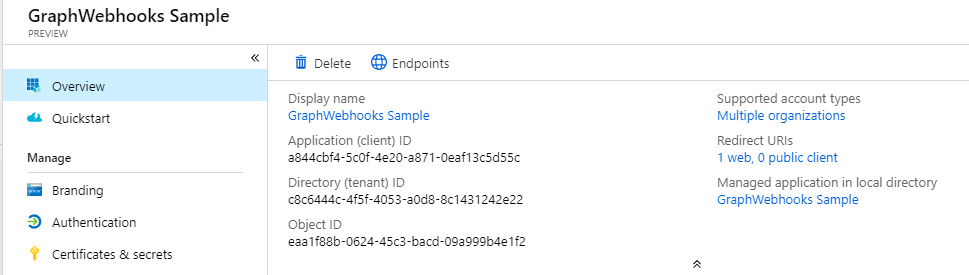
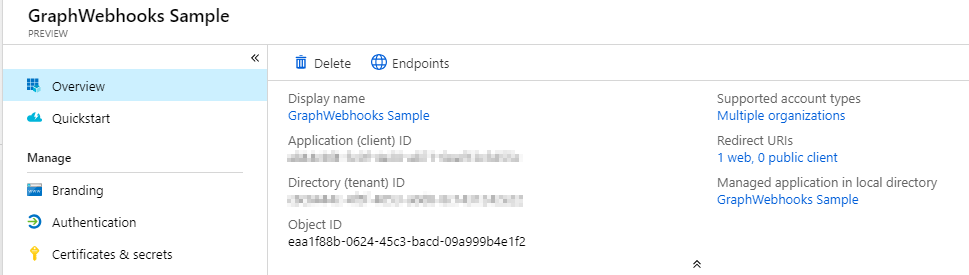
Updates to README.md images - blurring sensitive info.

Changed region(s): [[0.2786, 0.6982, 0.5573, 0.7564], [0.2786, 0.5527, 0.5573, 0.6109]]

diff --git a/README.md b/README.md
@@ -46,7 +46,7 @@ In this exercise, you will create a new Azure AD web application registration us
 
 1. Select **New registration**. On the **Register an application** page, set the values as follows.
 
-    - Set a preferred **Name** eg `GraphWebhooks Sample`.
+    - Set a preferred **Name** e.g. `GraphWebhooks Sample`.
     - Set **Supported account types** to **Accounts in any organizational directory**.
     - Under **Redirect URI**, set the first drop-down to `Web` and set the value to the ASP.NET app SSL URL you copied in step 1.
 
